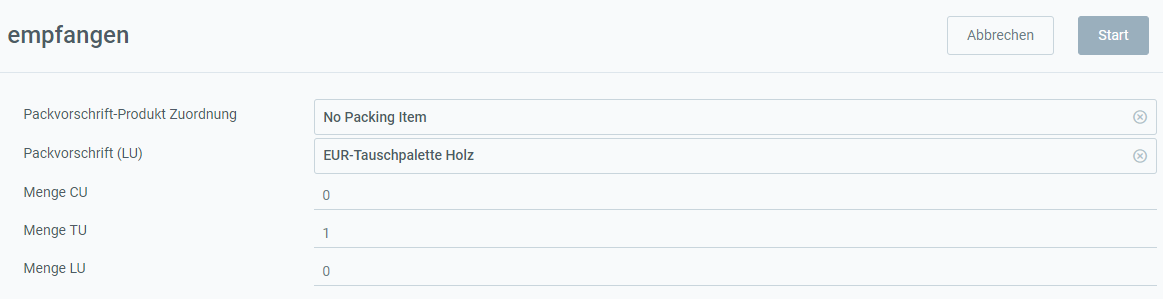
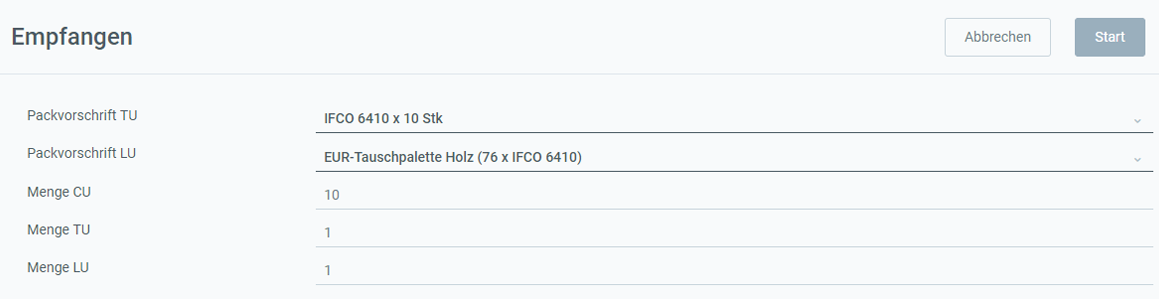
Updated ref productioncompletion in DE
(this is about issue #267 )

diff --git a/_webui_collection/DE/ProduktionFertigstellung.md b/_webui_collection/DE/ProduktionFertigstellung.md
@@ -11,8 +11,8 @@ ref: productioncompletion
 
 ## Übersicht
 metasfresh bietet zwei Möglichkeiten, den Materialverbrauch bei der Produktion zu protokollieren:
-1. Produkt herstellen, ohne Material zu verbrauchen.
-1. Produkt herstellen und Materialverbrauch protokollieren.
+1. Ein Produkt herstellen, ohne Material zu verbrauchen.
+1. Ein Produkt herstellen und Materialverbrauch protokollieren.
 
 ## Vorbereitung
 Stelle sicher, dass Du diejenigen Produkte, die Du bei der Produktion verbrauchst, vorher auch auf Lager hast.
@@ -24,36 +24,37 @@ Stelle sicher, dass Du diejenigen Produkte, die Du bei der Produktion verbrauchs
  >**Hinweis:** Hast Du den Produktionsauftrag in der Listenansicht selektiert, kannst Du ebenfalls über den [Quick-Actions](AktionStarten)-Button oben rechts die Aktion ![](assets/Actionbutton_Produzieren.png) starten.
 
 ### 1. Produkt herstellen, ohne Material zu verbrauchen
-Dies ist die einfachste Möglichkeit in metasfresh zu produzieren. Hierbei wird die produzierte Menge einfach zugebucht, ohne die benötigten Produkte aus der Stückliste abzubuchen.
+Dies ist die einfachste Möglichkeit in metasfresh zu produzieren. Hierbei wird die produzierte Menge einfach zugebucht, ohne die benötigten Produkte von der Stückliste abzubuchen.
 
-
-1. Klicke im Produktionsfenster das Produkt an, welches Du herstellen möchtest, z.B. "Karotten gestückelt".
+1. Selektiere im Produktionsfenster das Produkt (**MP**), welches Du herstellen möchtest, z.B. "Karotten gestückelt".
  ![](assets/ProduktionFertigstellung_Produktionsfenster.png)
 
-1. Wähle über den Quick-Actions-Button "empfangen" aus.<br>
+1. Wähle über den Quick-Actions-Button "Empfangen" aus.<br>
  ![](assets/ProduktionFertigstellung_empfangen_1.png)<br>
- >**Hinweis:** Wurde dem Produkt eine Gebindekonfiguration zugewiesen, erscheint diese auf dem Quick-Actions-Button anstelle von "empfangen".
+ >**Hinweis:** Wurde dem Produkt eine Packvorschrift zugewiesen, erscheint diese auf dem Quick-Actions-Button anstelle von "Empfangen".
   ![](assets/ProduktionFertigstellung_empfangen_2.png)
 
 1. Es öffnet sich ein neues Fenster.
  ![](assets/ProduktionFertigstellung-ea202.png)
 
-1. Im Feld **Menge CU** trägst Du die fertiggestellte Menge des Produkts ein.
-
-1. Im Feld **Menge TU** trägst Du die Menge der Verpackungseinheiten ein.
- >**Hinweis 1:** Das Feld **Menge TU** erscheint nur, wenn auch eine **Packvorschrift TU** vorhanden ist.<br><br>
+1. ***Optional:*** Wähle eine **Packvorschrift TU** aus.
+1. ***Optional:*** Wähle eine **Packvorschrift LU** aus.
+1. Trage im Feld **Menge CU** die empfangene Menge des Produkts ein.
+1. Trage im Feld **Menge TU** die Anzahl der Transporteinheiten ein.
+ >**Hinweis 1:** Das Feld **Menge TU** erscheint nur, wenn auch eine **Packvorschrift TU** ausgewählt wurde.<br><br>
  >**Hinweis 2:** Die Menge TU muss **mindestens 1** betragen.
 
-1. Im Feld **Menge LU** trägst Du die Menge der Ladehilfsmittel ein.
- >**Hinweis 1:** Das Feld **Menge LU** erscheint nur, wenn auch eine **Packvorschrift LU** vorhanden ist.<br><br>
- >**Hinweis 2:** Das Feld **Packvorschrift LU** erscheint nur, wenn auch eine **Packvorschrift TU** vorhanden ist.
+1. Trage im Feld **Menge LU** die Anzahl der Ladehilfsmittel ein.
+ >**Hinweis 1:** Das Feld **Menge LU** erscheint nur, wenn auch eine **Packvorschrift LU** ausgewählt wurde.<br><br>
+ >**Hinweis 2:** Das Feld **Packvorschrift LU** erscheint nur, wenn auch eine **Packvorschrift TU** ausgewählt wurde.<br><br>
+ >**Hinweis 3:** Die Menge LU muss **mindestens 1** betragen.
 
-1. Klicke auf "Start", um die Zuordnung zu speichern und das Fenster zu schließen.
-
-1. Nach erfolgreicher Zuordnung siehst Du die zugeordneten Produkte unterhalb des herzustellenden Produktes:
+1. Klicke auf "Start", um die empfangenen HUs zu erfassen und das Fenster zu schließen.
+1. Nach erfolgreicher Zuordnung werden die empfangenen HUs unterhalb des herzustellenden Produkts aufgelistet:
  ![](assets/ProduktionFertigstellung-a5222.png)
+  >**Hinweis:** Möchtest Du die Zuordnung rückgängig machen, wähle einfach die hinzugefügte HU aus, gehe zum Quick-Actions-Button und klicke auf "HU entfernen".
 
-1. Wähle über den Quick-Actions-Button "Status: Planning complete" aus, um die Materialbuchungen vorzunehmen. Dadurch werden die Zeilen schreibgeschützt:
+1. Wähle über den Quick-Actions-Button "Verarbeiten" aus, um die Materialbuchung vorzunehmen. Dadurch werden die Zeilen schreibgeschützt:
  ![](assets/ProduktionFertigstellung-ed689.png)
 
 1. Klicke auf "Bestätigen", um das Fenster zu schließen.
@@ -61,25 +62,28 @@ Dies ist die einfachste Möglichkeit in metasfresh zu produzieren. Hierbei wird 
 ## Beispiel 1
 ![](assets/ProduktionFertigstellung_walkthrough.gif)
 
-### 2. Produkt herstellen und Materialverbrauch protokollieren
-Hierbei werden die für die Produktion benötigten Produkte aus der Stückliste abgebucht. Die Zubuchung der produzierten Menge erfolgt wie oben beschrieben.
+---
 
-1. Klicke im Produktionsfenster die Komponente (**CO**) an, welche Du aus der Stückliste abbuchen möchtest, z.B. "Karotten ungewaschen".
+### 2. Produkt herstellen und Materialverbrauch protokollieren
+Hierbei werden die für die Produktion benötigten Produkte von der Stückliste abgebucht. Die Zubuchung der produzierten Menge erfolgt wie oben beschrieben.
+
+1. Selektiere im Produktionsfenster die Komponente (**CO**), welche Du von der Stückliste abbuchen möchtest, z.B. "Karotten ungewaschen".
  ![](assets/ProduktionFertigstellung_Materialverbrauch.png)
 
-1. Wähle über den Quick-Actions-Button "hinzufügen" aus.<br>
- ![](assets/ProduktionFertigstellung_hinzufügen.png)
+1. Wähle über den Quick-Actions-Button "HU-Auswahlfenster öffnen" aus.<br>
+ ![](assets/HU-Auswahlfenster_oeffnen.png)
 
-1. Es öffnet sich eine Übersicht mit den passenden Handhabungseinheiten (Handling Unit - HU) vom Lager.
+1. Es öffnet sich eine Übersicht mit den passenden Handling Units (HU) vom Lager.
  ![](assets/ProduktionFertigstellung_Lagerübersicht.png)
 
-1. Wähle die HU aus, welche für die Produktion verbraucht werden soll.
-
-1. Wähle über den Quick-Actions-Button nochmals "hinzufügen" aus.
-
-1. Nach erfolgreicher Abbuchung siehst Du die abgebuchten Produkte unterhalb der Komponente.
+1. Selektiere die HU, welche für die Produktion verbraucht werden soll.
+1. Wähle über den Quick-Actions-Button "Komplette HUs hinzufügen" aus.
+1. Nach erfolgreicher Zuordnung siehst Du die hinzugefügte HU unterhalb der Komponente.
 ![](assets/ProduktionFertigstellung_Abbuchung.png)
- >**Hinweis:** Möchtest Du die Abbuchung rückgängig machen, wähle einfach die hinzugefügte HU aus, gehe zum Quick-Actions-Button und klicke auf ![](assets/Actionbutton_Rückgängig.png).
+ >**Hinweis:** Möchtest Du die Abbuchung rückgängig machen, wähle einfach die hinzugefügte HU aus, gehe zum Quick-Actions-Button und klicke auf "HU entfernen".
+
+1. Wähle über den Quick-Actions-Button "Verarbeiten" aus, um die Abbuchung vorzunehmen. Dadurch werden die Zeilen schreibgeschützt:
+ ![](assets/HU_booking_readonly.png)
 
 1. Klicke auf "Bestätigen", um das Fenster zu schließen.
 
